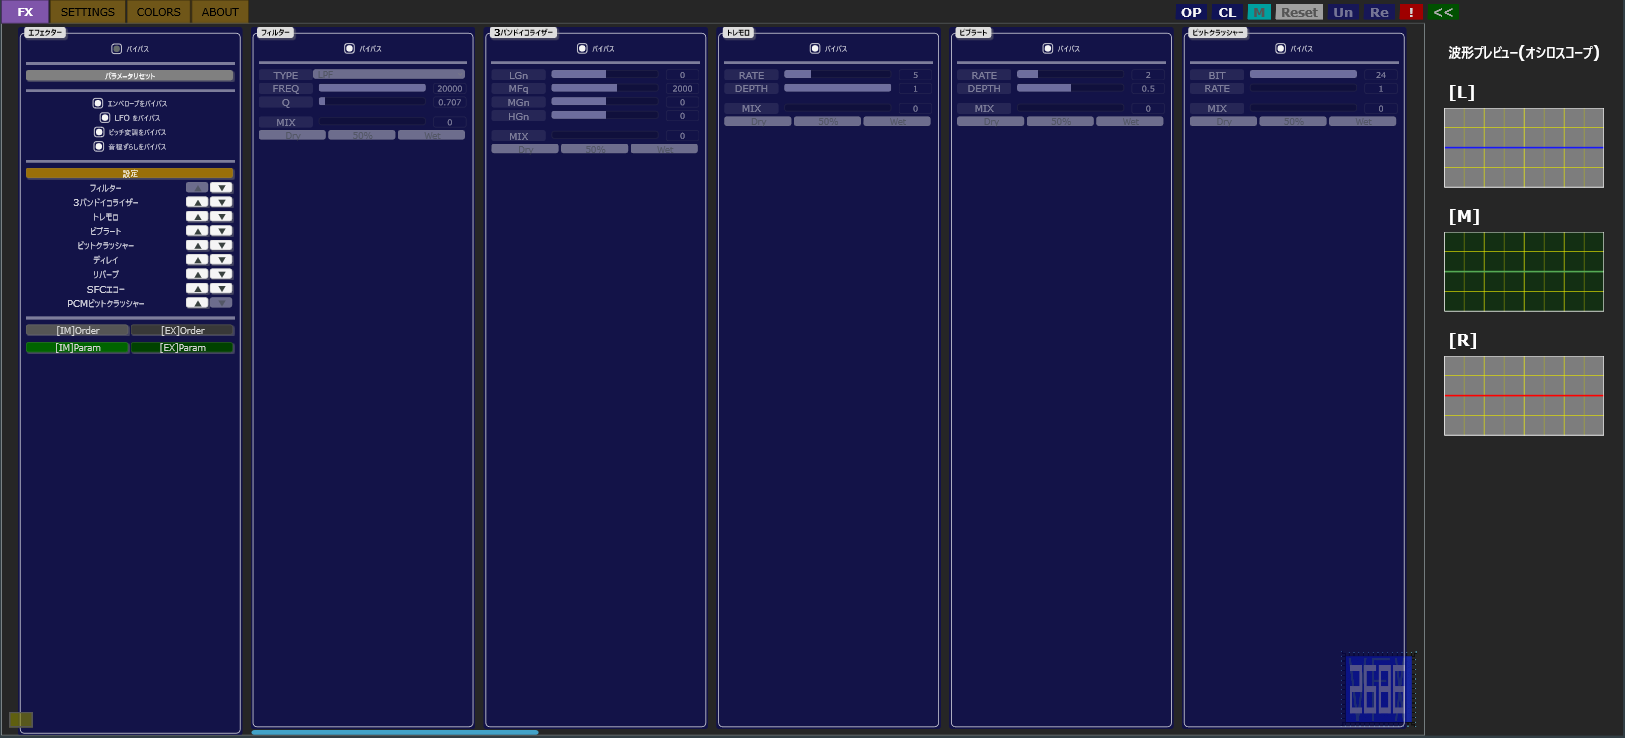
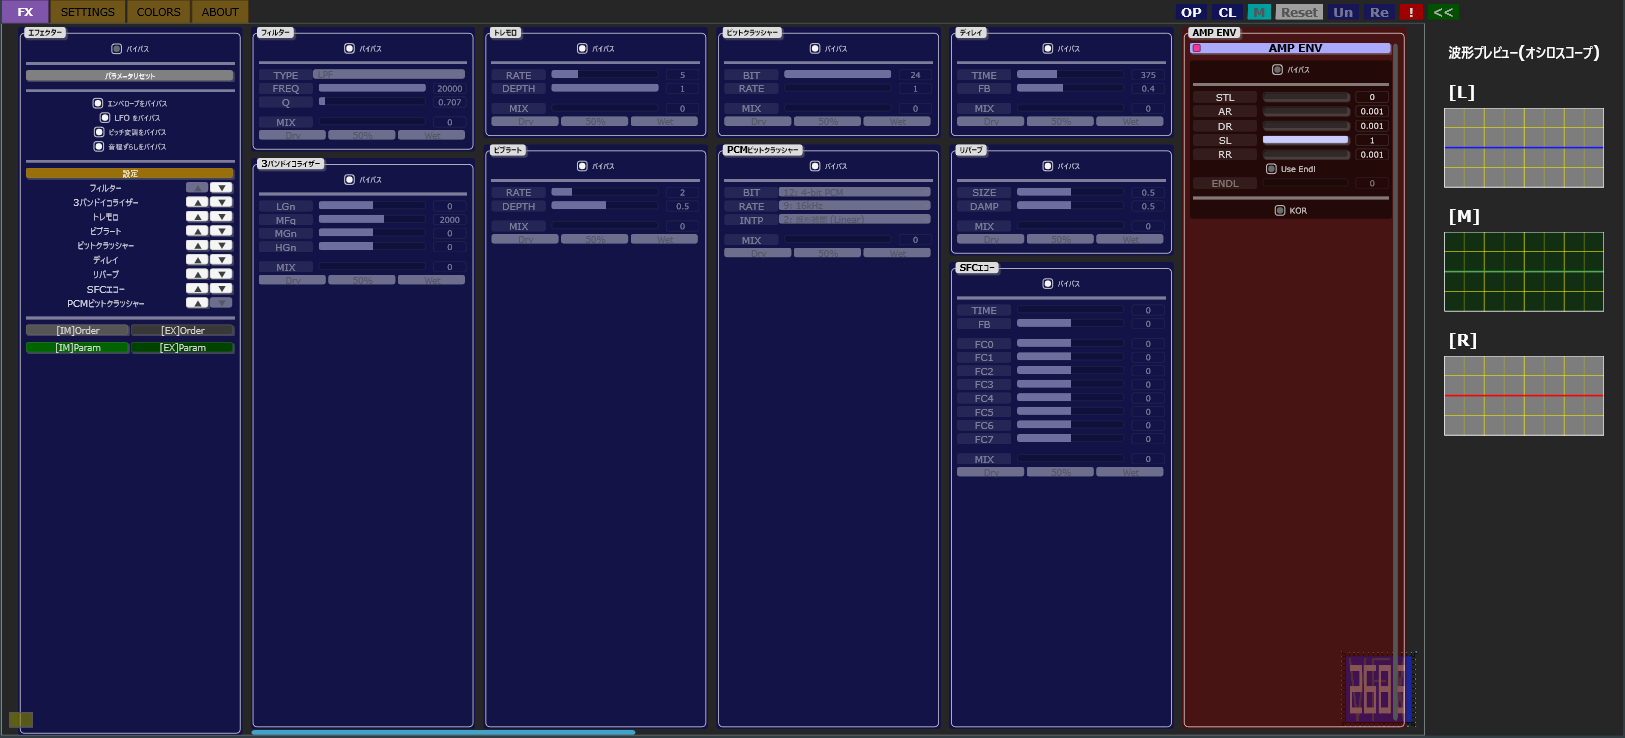
docs: 初期設定の問いと、2686VFX の効果の並べ方を書く

diff --git a/docs/src/content/docs/en/guide/changes-330.md b/docs/src/content/docs/en/guide/changes-330.md
@@ -102,6 +102,8 @@ Since operators are no longer shown four at a time, OPZX7S's **VIEW MODE** (swit
 - **Labels are now eight characters wide, and the spellings are back in full.** Squeezed forms such as LV, SHPE and P.OF now read LEVEL, SHAPE and P.OFFSET. The row total is unchanged, so nothing moves
 - **The RHYTHM pad's LEVEL has value buttons too.** Pressing N brings up the same set as the channel LEVEL (±1.0 / ±0.1 / ±0.01, 1.0, 0.25 and so on)
 - **WT+ and ADPCM+ OPTIONAL, and ADPCM+ PAN, now start open**
+- **The first time the window opens, you are asked whether to use simple view.** Answering creates the default settings file, so the question is not asked again. See [the initial settings question](/2686V_2686VFX/en/guide/install/#the-initial-settings-question)
+- **2686VFX stacks related effects in one column.** The nine effect columns became four, so the modulation panels to the right are a shorter scroll away. The processing order is unchanged
 - **Toggle buttons can be laid out two ways.** The setting is under "simple view" in SETTINGS: centred (as before) or left-aligned, and it takes effect across the whole window as soon as it is switched
 - **Dividers were added inside OPTIONAL**, because the position and rate above and the looping below are different matters
 - **The browser gained shortcuts.** **ESC** closes it and **Ctrl+M** builds a preview
@@ -115,6 +117,7 @@ Faults present up to 3.2.0.
 - **The mask in the MML copied with Ctrl + C did not reflect OP3 and OP4.** The second operator's value was written twice. This affected OPNA / OPN / OPL3 / OPM
 - **OPZX7S's TARGET stopped at 6**, so operators 7 and 8 could not be read or written one operator at a time
 - **On 86V's RHYTHM, TARGET and the pad copy source/destination went up to 8.** 86V has six pads, so 7 and 8 pointed at pads that do not exist
+- **"Load from settings file" on SETTINGS did not show everything it loaded.** The simple view, tooltip, headroom and virtual MIDI keyboard toggles kept their old state, and simple view, tooltips and the virtual keyboard did not follow the loaded values until switched again
 
 ## About the older file format
 

diff --git a/docs/src/content/docs/guide/changes-330.md b/docs/src/content/docs/guide/changes-330.md
@@ -160,6 +160,11 @@ OPNA / OPN / OPL / OPL3 / OPM / OPZX7S / RHYTHM のタブは、これまで
   チャンネルの LEVEL と同じ並び（±1.0 / ±0.1 / ±0.01、1.0、0.25 など）が出ます
 - **WT+ と ADPCM+ の OPTIONAL、ADPCM+ の PAN を、最初から開いた状態に
   しました**
+- **はじめて画面を開いたときに、簡易表示モードで使うかを尋ねるように
+  しました。** 答えると標準設定のファイルを作るので、次からは尋ねません。
+  詳しくは [初期設定の問い](/2686V_2686VFX/guide/install/#初期設定の問い) にあります
+- **2686VFX の効果を、仲間どうし 1 列へ積みました。** 9 列あった効果が
+  4 列になり、右の変調まで短い距離で届きます。かける順番は変わりません
 - **トグルボタンの並べ方を選べるようにしました。** SETTINGS の「簡易表示
   モード」の下にあります。中央寄せ（従来）と左寄せの 2 つで、切り替えた
   その場で画面じゅうへ効きます
@@ -184,6 +189,10 @@ OPNA / OPN / OPL / OPL3 / OPM / OPZX7S / RHYTHM のタブは、これまで
   オペレーター単位で読み書きできませんでした
 - **86V の RHYTHM で、TARGET とパッドのコピー元・コピー先が 8 まで選べました。**
   86V のパッドは 6 枚なので、7・8 は無いパッドを指していました
+- **SETTINGS の「設定ファイルから読み込み」で、読んだ値の一部が画面へ
+  出ていませんでした。** 簡易表示モード・ツールチップ・ヘッドルーム・仮想
+  MIDIキーボードのトグルが前の値のまま残り、簡易表示モードとツールチップ、
+  仮想MIDIキーボードは、切り替え直すまで読んだ値が効いていませんでした
 
 ## 古い形式のファイルについて
 

diff --git a/docs/src/content/docs/guide/install.md b/docs/src/content/docs/guide/install.md
@@ -27,6 +27,32 @@ C:\Program Files\Common Files\VST3
 パラメータファイルはすべてこの下に置かれます。中身は
 [ファイルの形式と置き場所](/2686V_2686VFX/files/format/) を参照してください。
 
+### 初期設定の問い
+
+はじめて画面を開くと、**「初期設定」** というダイアログで次のように尋ねます。
+
+> パラメータを簡易表示モード(必要最低限のパラメータのみ表示)で表示しますか？
+
+| 答え | どうなるか |
+| --- | --- |
+| **はい** | 簡易表示モードを入れて、標準設定のファイルを作ります |
+| **いいえ**（ESC で閉じたときも） | 簡易表示モードを切って、標準設定のファイルを作ります |
+
+どちらを選んでも、あとから SETTINGS の **「簡易表示モード」** で切り替え
+られます。簡易表示モードは区分の一部を隠すだけで、音は変わりません。
+
+標準設定のファイル (`init.settings.json`) は 12 のプラグインで共通です。
+どれか 1 本で答えれば、ほかのプラグインでは尋ねません。答える前に画面を
+閉じたときは、ファイルを作らず、次に開いたときにまた尋ねます。
+
+:::note[もう一度尋ねてほしいとき]
+すべてのプラグインを閉じてから、`(ドキュメント)\2686V\init.settings.json`
+（YAML を選んでいるときは `init.settings.yaml`）を別の名前へ変えるか消します。
+標準設定がまるごと初期値へ戻るので、残しておきたい設定があるときは名前を
+変えて取っておき、答えたあとで SETTINGS の「設定ファイルから読み込み」で
+読み戻してください。
+:::
+
 ## 設定の保存
 
 画面で変えた設定は、その場では保存されません。SETTINGS タブの

diff --git a/docs/src/content/docs/en/guide/install.md b/docs/src/content/docs/en/guide/install.md
@@ -27,6 +27,34 @@ A working folder is created under your Documents folder:
 files you export are kept underneath it. See
 [Formats and locations](/2686V_2686VFX/en/files/format/) for what goes where.
 
+### The initial settings question
+
+The first time the window opens, a dialog titled **「初期設定」** (initial
+settings) asks:
+
+> パラメータを簡易表示モード(必要最低限のパラメータのみ表示)で表示しますか？
+> (Show parameters in simple view, with only the essentials on screen?)
+
+| Answer | What happens |
+| --- | --- |
+| **はい** (Yes) | Simple view is turned on and the default settings file is created |
+| **いいえ** (No), or closing it with ESC | Simple view is turned off and the default settings file is created |
+
+Either way, it can be switched later with **"Simple view"** on the SETTINGS
+tab. Simple view only hides some sections; the sound does not change.
+
+The default settings file (`init.settings.json`) is shared by all twelve
+plugins, so answering in one means the others will not ask. If the window is
+closed before answering, no file is written and the question comes back the
+next time it opens.
+
+:::note[To be asked again]
+Close every plugin, then rename or delete `(Documents)\2686V\init.settings.json`
+(`init.settings.yaml` when YAML is selected). This resets all default settings,
+so if you want to keep them, rename the file instead, answer the question, and
+load it back with "Load from settings file" on the SETTINGS tab.
+:::
+
 ## Saving your settings
 
 Changes made on screen are not persisted automatically. Press

diff --git a/readme.md b/readme.md
@@ -84,10 +84,14 @@ DAW上で、「PC-9801-26」と「PC-9801-86」を再現したような曲を作
   - 一覧で同じ行をもう一度押すと選択を解除
   - RHYTHM のパッドの LEVEL にもナッジボタンを追加
   - WT+ と ADPCM+ の OPTIONAL、ADPCM+ の PAN を最初から開いた状態に
+  - 初めて画面を開いたときに、簡易表示モードで使うかを尋ねる
+    - はい・いいえ(ESC)のどちらでも標準設定ファイルを作成し、次からは尋ねない
+  - 2686VFX の効果を仲間どうし1列に積み、9列を4列に(かける順番は変わらない)
 - **修正**
   - 2686VLight・26V・86V・OPZX7S で、OP / CL と「非表示中の区分をバイパス」が効いていなかった
   - Ctrl + C で書き出す MML のマスクが、OP3・OP4 の状態を映していなかった(OPNA / OPN / OPL3 / OPM)
   - OPZX7S の TARGET が 6 までしか動かず、7・8 番のオペレーターを読み書きできなかった
+  - SETTINGS の「設定ファイルから読み込み」で、簡易表示モードなどのトグルが前の値のまま残っていた
   - 86V の RHYTHM で、TARGET とパッドのコピー元・コピー先が 8 まで選べた
 - **古い形式のファイルについて**
   - 3.0.0 より前の行並びの形式へは、この版で足したつまみを書き込まない(読み込みはこれまでどおり)

diff --git a/readme.en.md b/readme.en.md
@@ -84,10 +84,14 @@ I wanted to write tracks in my DAW that sounded like they came off a "PC-9801-26
   - Clicking the same row again in a list clears the selection.
   - The RHYTHM pad's LEVEL gained nudge buttons.
   - WT+ and ADPCM+ OPTIONAL, and ADPCM+ PAN, now start open.
+  - The first time the window opens, you are asked whether to use simple view.
+    - Yes or No (or ESC) both create the default settings file, so it is asked only once.
+  - 2686VFX stacks related effects in one column, bringing nine columns down to four (the processing order is unchanged).
 - **Fixes**
   - On 2686VLight, 26V, 86V and OPZX7S, OP / CL and "Bypass hidden sections" did nothing.
   - The mask in the MML copied with Ctrl + C did not reflect OP3 and OP4 (OPNA / OPN / OPL3 / OPM).
   - OPZX7S's TARGET stopped at 6, so operators 7 and 8 could not be read or written.
+  - "Load from settings file" on SETTINGS left the simple view and other toggles showing their old state.
   - On 86V's RHYTHM, TARGET and the pad copy source/destination went up to 8.
 - **About the older file format**
   - The knobs added in this release are not written into the line-ordered format from before 3.0.0 (reading works as before).

diff --git a/docs/src/content/docs/plugins/fx-plugin.md b/docs/src/content/docs/plugins/fx-plugin.md
@@ -37,6 +37,18 @@ FX タブは横一列に並びます。一番左が **エフェクター**（全
 かける順番）で、その右に効果と変調の枠が続きます。右へスクロールすると、
 すべての枠を順に見られます。
 
+効果は仲間どうしを 1 列へ縦に積んで、4 列にまとめてあります。
+
+| 列 | 積んである効果 |
+| --- | --- |
+| 1 | フィルター / 3バンドイコライザー |
+| 2 | トレモロ / ビブラート |
+| 3 | ビットクラッシャー / PCMビットクラッシャー |
+| 4 | ディレイ / リバーブ / SFCエコー |
+
+この並びは種類でそろえたもので、**かける順番とは関係ありません。** 順番は
+エフェクターの一覧で決めます。
+
 ## 効果 (9 種類)
 
 | 効果 | 概要 |

diff --git a/docs/src/content/docs/en/plugins/fx-plugin.md b/docs/src/content/docs/en/plugins/fx-plugin.md
@@ -23,6 +23,19 @@ The FX tab lays everything out in a single horizontal row. Leftmost is
 effect and modulation panels follow to its right. Scroll right to reach them
 all.
 
+Related effects are stacked in one column, which brings the effects down to
+four columns.
+
+| Column | Stacked effects |
+| --- | --- |
+| 1 | Filter / 3-band EQ |
+| 2 | Tremolo / Vibrato |
+| 3 | Bit crusher / PCM bit crusher |
+| 4 | Delay / Reverb / SFC echo |
+
+The grouping is by kind and **has nothing to do with the processing order**,
+which is still set in the Effector list.
+
 ## The effects (9 of them)
 
 | Effect | What it does |

diff --git a/docs/src/content/docs/en/guide/screen.md b/docs/src/content/docs/en/guide/screen.md
@@ -126,6 +126,9 @@ that **keeps the ones you use and folds the rest away**. It only hides what is
 on screen — **the sound does not change**, and the values of the hidden
 sections stay as they were.
 
+The first time the window opens, you are asked whether to turn it on
+([the initial settings question](/2686V_2686VFX/en/guide/install/#the-initial-settings-question)).
+
 What gets hidden is decided per tab, and **a section the channel has as a
 feature of the real chip stays**. That is why SSG keeps SSG HW AMP ENV, and
 WT / WT2 / WT+ keep WT PITCH MOD. In 2686VFX the modulation panels are hidden
